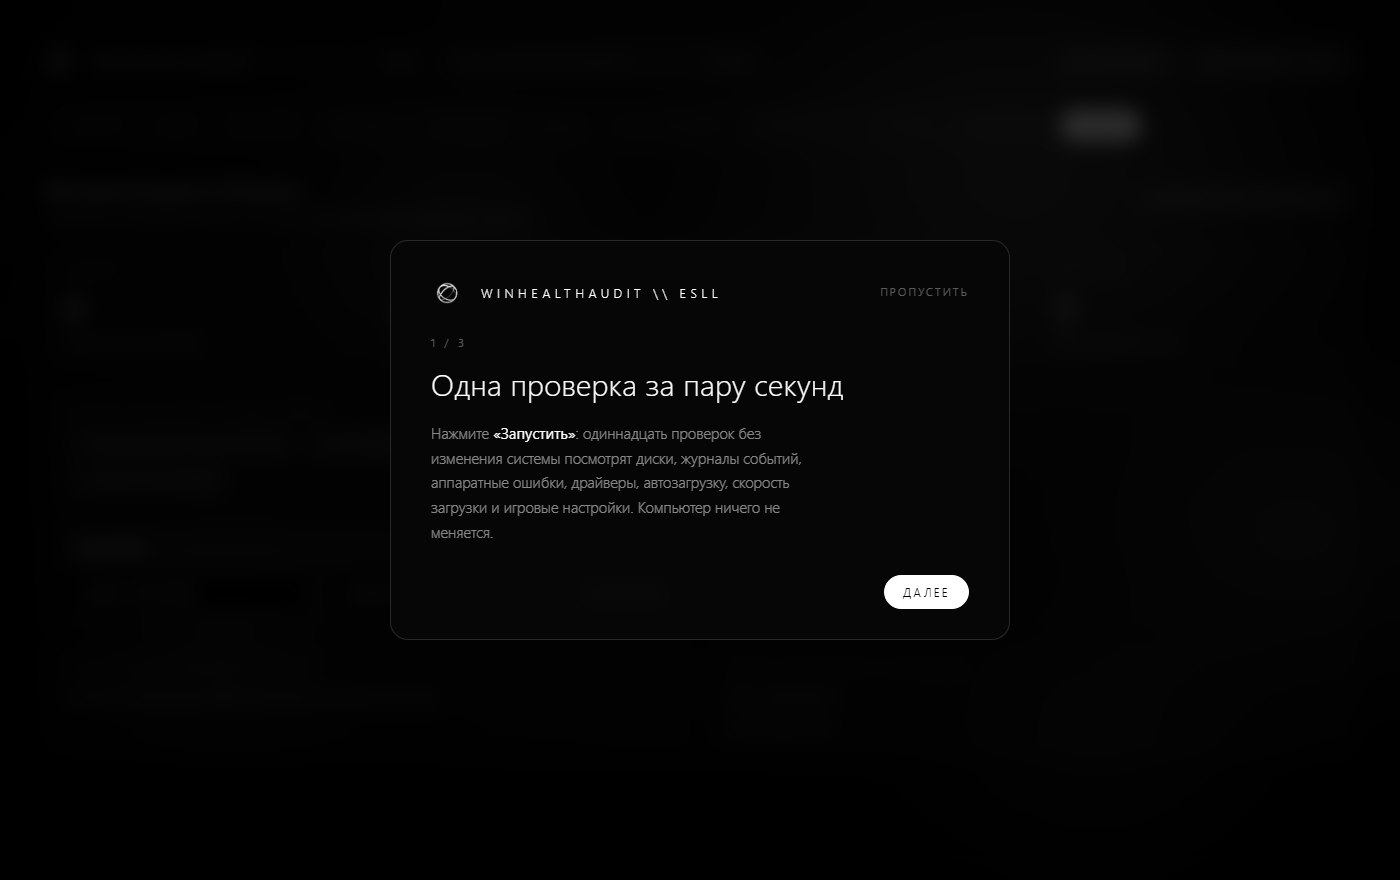
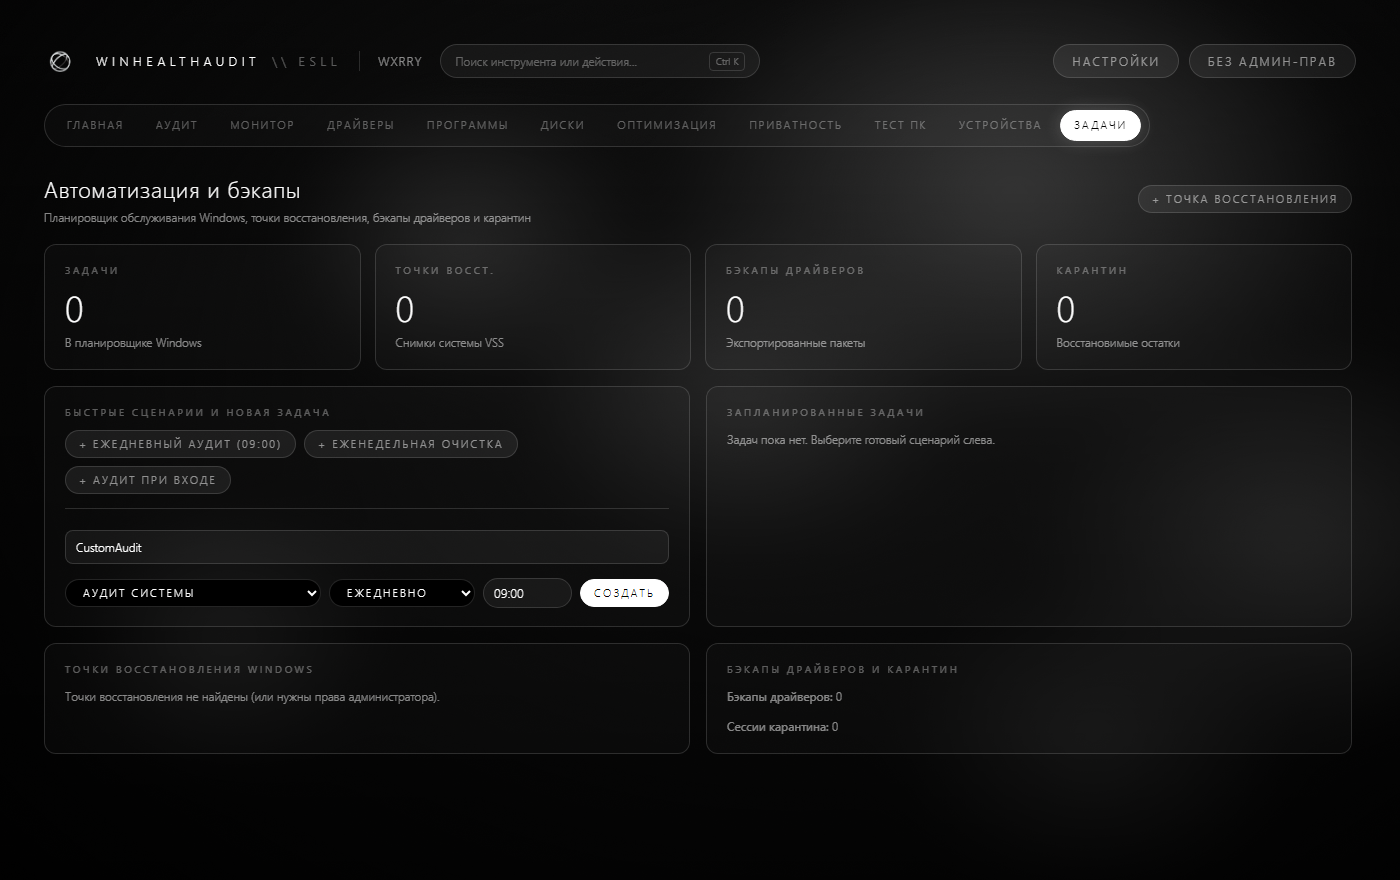
docs: update screenshots without tutorial overlay

diff --git a/gui/index.html b/gui/index.html
@@ -1609,7 +1609,7 @@
       if (params.get("splash") === "1") return;   // screenshot hook: keep the splash
       document.getElementById("splash").classList.add("gone");
       if (params.get("tutorial") === "1") showIntro(true);
-      else if (localStorage.getItem("wha_intro") !== "v1") showIntro(false);
+      else if (params.get("nointro") !== "1" && localStorage.getItem("wha_intro") !== "v1") showIntro(false);
       else maybeAutoRun();
     }, Math.max(0, 700 - (Date.now() - firstStateAt)));
   }
